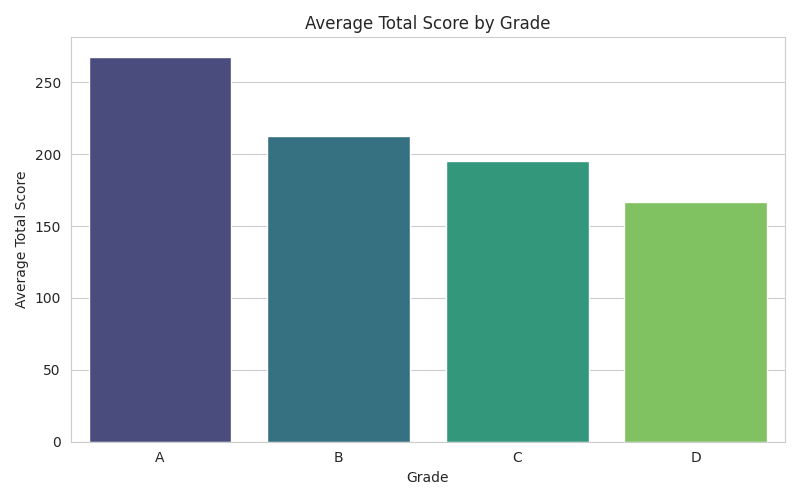
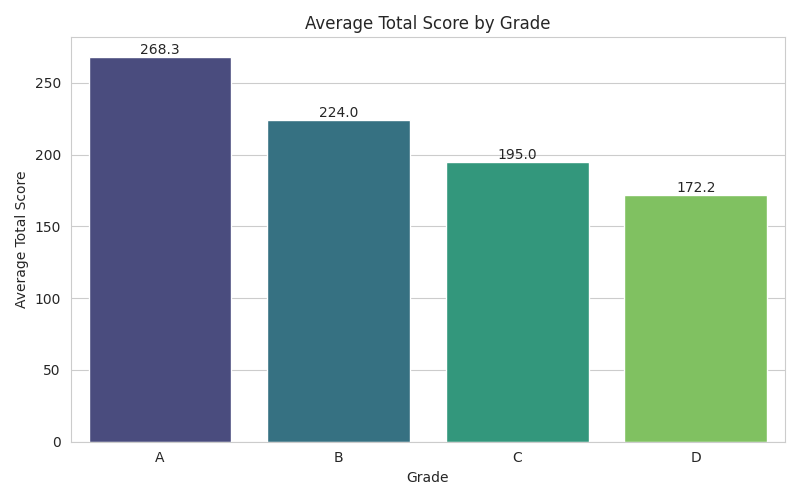
Final logger and visualization updates

diff --git a/visualization.py b/visualization.py
@@ -6,7 +6,7 @@ import seaborn as sns
 # ===== Setup =====
 PROJECT_FOLDER = "/home/sakshi-asati/Desktop/python/Mini_project"
 PLOTS_FOLDER = os.path.join(PROJECT_FOLDER, "plots")
-os.makedirs(PLOTS_FOLDER, exist_ok=True)  # Create folder if it doesn't exist
+os.makedirs(PLOTS_FOLDER, exist_ok=True)
 
 DATA_FOLDER = os.path.join(PROJECT_FOLDER, "data")
 CLEANED_FILE = os.path.join(DATA_FOLDER, "Cleaned_data_student.csv")
@@ -19,20 +19,27 @@ if not os.path.exists(CLEANED_FILE):
 # Read cleaned CSV
 df = pd.read_csv(CLEANED_FILE)
 
-# Add total score column for convenience
+# Add total score column
 df['Total_Score'] = df[['Exam_Score', 'Assignment_Score', 'Project_Score']].sum(axis=1)
 
 # Set Seaborn style
 sns.set_style("whitegrid")
 
 # ===== Functions for plots =====
+
 def average_score_by_grade():
     avg_total = df.groupby('Grade')['Total_Score'].mean().sort_index()
     plt.figure(figsize=(8,5))
-    sns.barplot(x=avg_total.index, y=avg_total.values, palette="viridis")
+    ax = sns.barplot(x=avg_total.index, y=avg_total.values, palette="viridis")
+
     plt.title("Average Total Score by Grade")
     plt.xlabel("Grade")
     plt.ylabel("Average Total Score")
+
+    # 🔥 Add labels on bars
+    for container in ax.containers:
+        ax.bar_label(container, fmt="%.1f")
+
     plt.tight_layout()
     save_path = os.path.join(PLOTS_FOLDER, "avg_total_score_by_grade.png")
     plt.savefig(save_path)
@@ -41,14 +48,21 @@ def average_score_by_grade():
     except:
         print(f"✔ Plot saved as {save_path}")
 
+
 def top_10_students():
     top_df = df.sort_values('Total_Score', ascending=False).head(10)
     plt.figure(figsize=(10,5))
-    sns.barplot(x='Name', y='Total_Score', data=top_df, palette="coolwarm")
+    ax = sns.barplot(x='Name', y='Total_Score', data=top_df, palette="coolwarm")
+
     plt.title("Top 10 Students by Total Score")
     plt.xlabel("Student Name")
     plt.ylabel("Total Score")
     plt.xticks(rotation=45)
+
+    # 🔥 Add labels on bars
+    for container in ax.containers:
+        ax.bar_label(container, fmt="%.1f")
+
     plt.tight_layout()
     save_path = os.path.join(PLOTS_FOLDER, "top_10_students.png")
     plt.savefig(save_path)
@@ -56,6 +70,7 @@ def top_10_students():
         plt.show()
     except:
         print(f"✔ Plot saved as {save_path}")
+
 
 def histogram_total_score():
     plt.figure(figsize=(8,5))
@@ -71,6 +86,7 @@ def histogram_total_score():
     except:
         print(f"✔ Plot saved as {save_path}")
 
+
 def boxplot_score_by_grade():
     plt.figure(figsize=(8,5))
     sns.boxplot(x='Grade', y='Total_Score', data=df, palette="Set2")
@@ -84,6 +100,7 @@ def boxplot_score_by_grade():
         plt.show()
     except:
         print(f"✔ Plot saved as {save_path}")
+
 
 def attendance_vs_total_score():
     plt.figure(figsize=(8,5))
@@ -100,6 +117,7 @@ def attendance_vs_total_score():
     except:
         print(f"✔ Plot saved as {save_path}")
 
+
 # ===== Menu =====
 def menu():
     while True:
@@ -110,6 +128,7 @@ def menu():
         print("4. Boxplot of Total Score by Grade")
         print("5. Attendance vs Total Score")
         print("6. Exit")
+
         choice = input("Enter choice (1-6): ")
 
         if choice == '1':
@@ -127,6 +146,7 @@ def menu():
             break
         else:
             print("Invalid choice! Try again.")
+
 
 if __name__ == "__main__":
     menu()

diff --git a/main.py b/main.py
@@ -1,9 +1,15 @@
-# main.py
-import student_data   # Module for raw student CSV operations
-import preprocessed    # Module for cleaning CSV
-import visualization   # Module for visualizing cleaned CSV
+import logging
+import student_data
+import preprocessed
+import visualization
+from logger_config import setup_logger
+
+# Setup logger once
+setup_logger()
 
 def main_menu():
+    logging.info("Entered Main Menu")
+
     while True:
         print("\n===== Mini Project Main Menu =====")
         print("1. Student CSV Operations (student_data)")
@@ -12,22 +18,29 @@ def main_menu():
         print("4. Exit")
 
         choice = input("Enter choice (1-4): ")
+        logging.info(f"User selected option: {choice}")
 
         if choice == "1":
-            # Call student_data menu only when user selects this
+            logging.info("Opening Student CSV Menu")
             student_data.menu()
+
         elif choice == "2":
-            # Call preprocessed menu only when user selects this
+            logging.info("Opening Preprocessing Menu")
             preprocessed.menu()
+
         elif choice == "3":
-            # Call visualization menu only when user selects this
+            logging.info("Opening Visualization Menu")
             visualization.menu()
+
         elif choice == "4":
+            logging.info("Application exited by user")
             print("Exiting Mini Project. Goodbye!")
             break
+
         else:
+            logging.warning("Invalid choice entered")
             print("❌ Invalid choice! Please enter 1-4.")
 
-# ===== Start Program Only if Directly Run =====
+
 if __name__ == "__main__":
     main_menu()

diff --git a/logger_config.py b/logger_config.py
@@ -1,0 +1,16 @@
+# logger_config.py
+
+import logging
+import os
+
+PROJECT_FOLDER = "/home/sakshi-asati/Desktop/python/Mini_project"
+LOG_FILE = os.path.join(PROJECT_FOLDER, "project_log.txt")
+
+def setup_logger():
+    logging.basicConfig(
+        filename=LOG_FILE,
+        level=logging.INFO,
+        format="%(asctime)s - %(levelname)s - %(message)s",
+        filemode="a"   # append mode
+    )
+    logging.info("===== Application Started =====")
